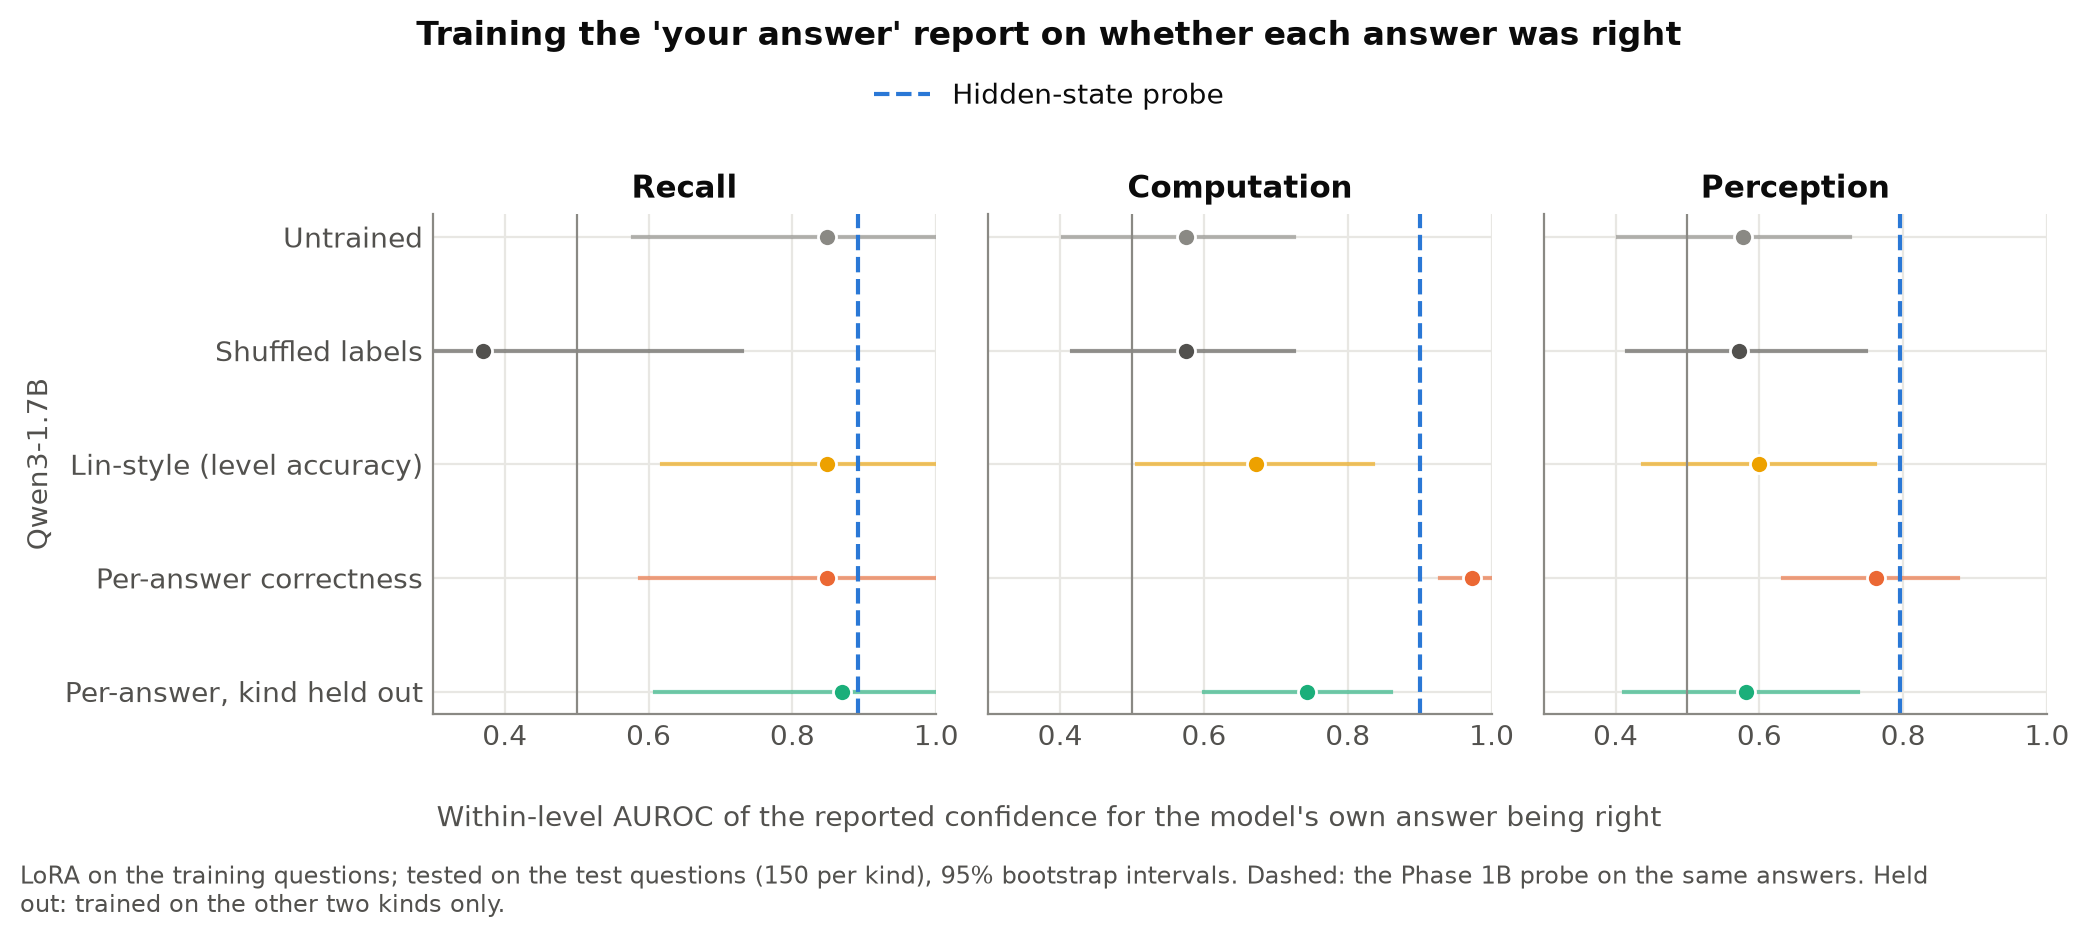
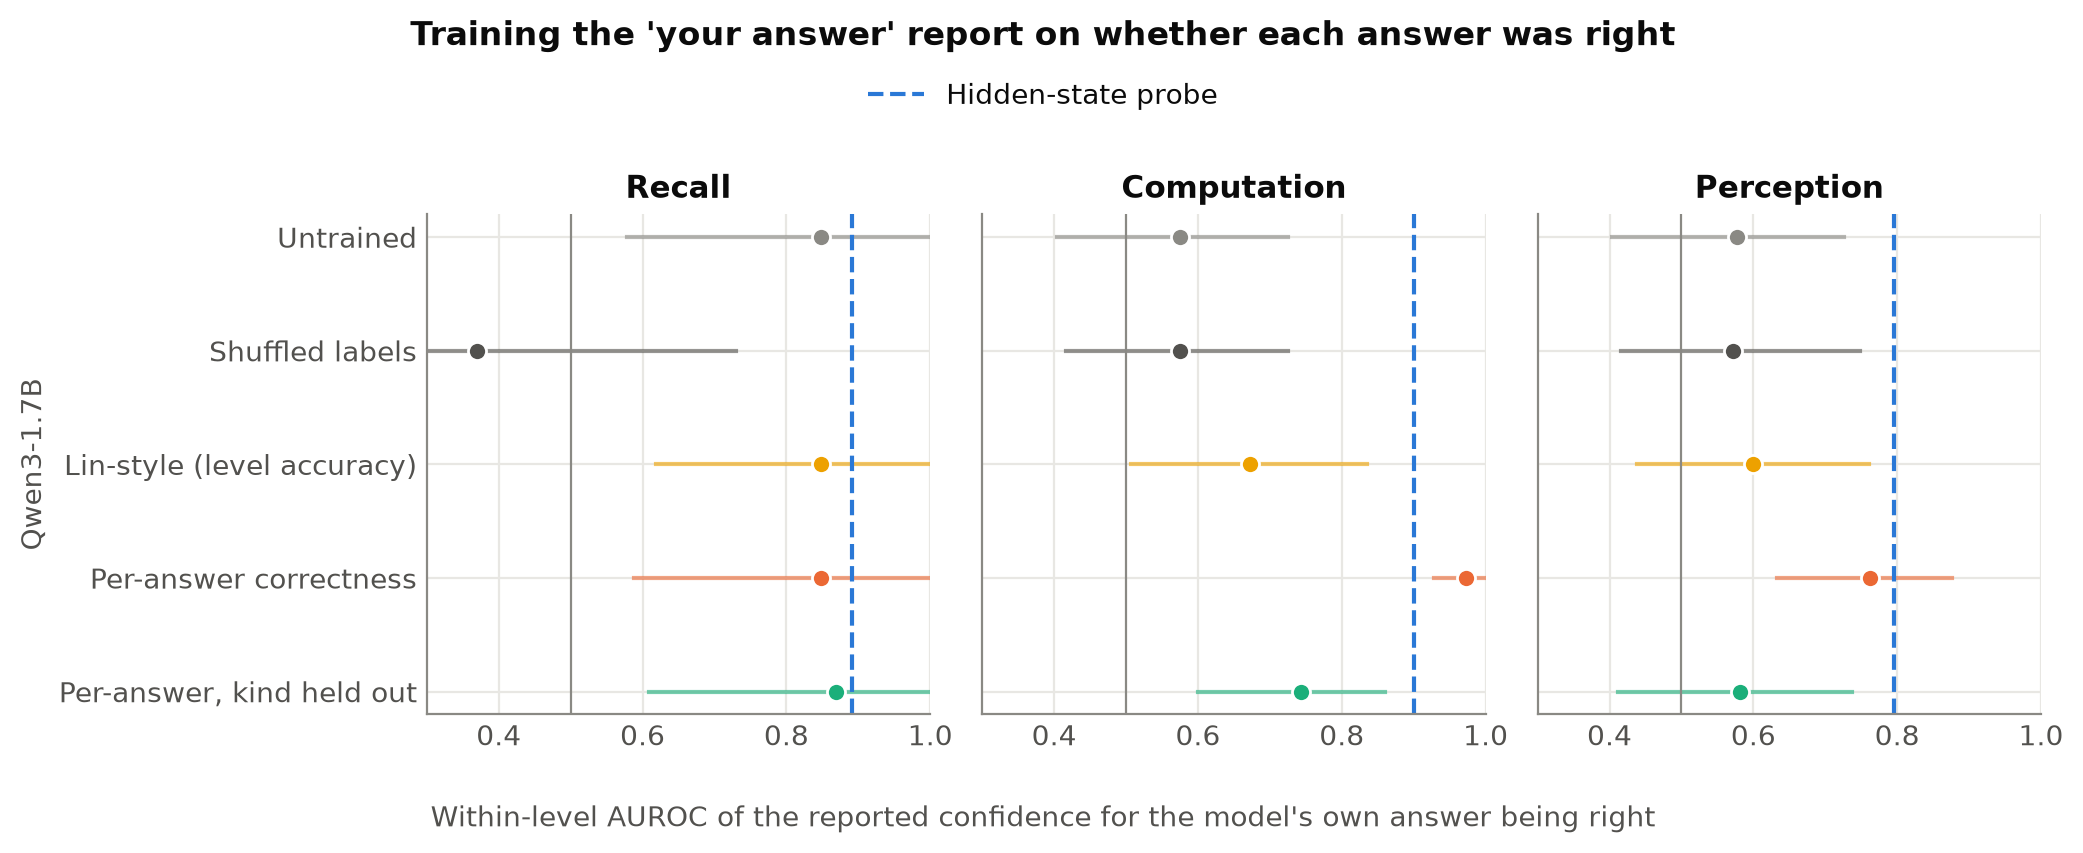
Fine-tuning figure: drop the note under the figure (the report caption covers it)

diff --git a/experiments/epic2/phase2_confidence_gap/analyze_lora.py b/experiments/epic2/phase2_confidence_gap/analyze_lora.py
@@ -128,9 +128,6 @@ def figure(res: pd.DataFrame) -> None:
     fig.suptitle("Training the 'your answer' report on whether each answer was right", y=1.08, fontweight="bold")
     fig.supxlabel("Within-level AUROC of the reported confidence for the model's own answer being right",
                   fontsize=10, color=pl.INK2)
-    pl.caption(fig, "LoRA on the training questions; tested on the test questions (150 per kind), 95% bootstrap "
-                    "intervals. Dashed: the Phase 1B probe on the same answers. Held out: trained on the other "
-                    "two kinds only.", y=-0.03)
     fig.tight_layout()
     an.save(fig, "e5_lora")
 
